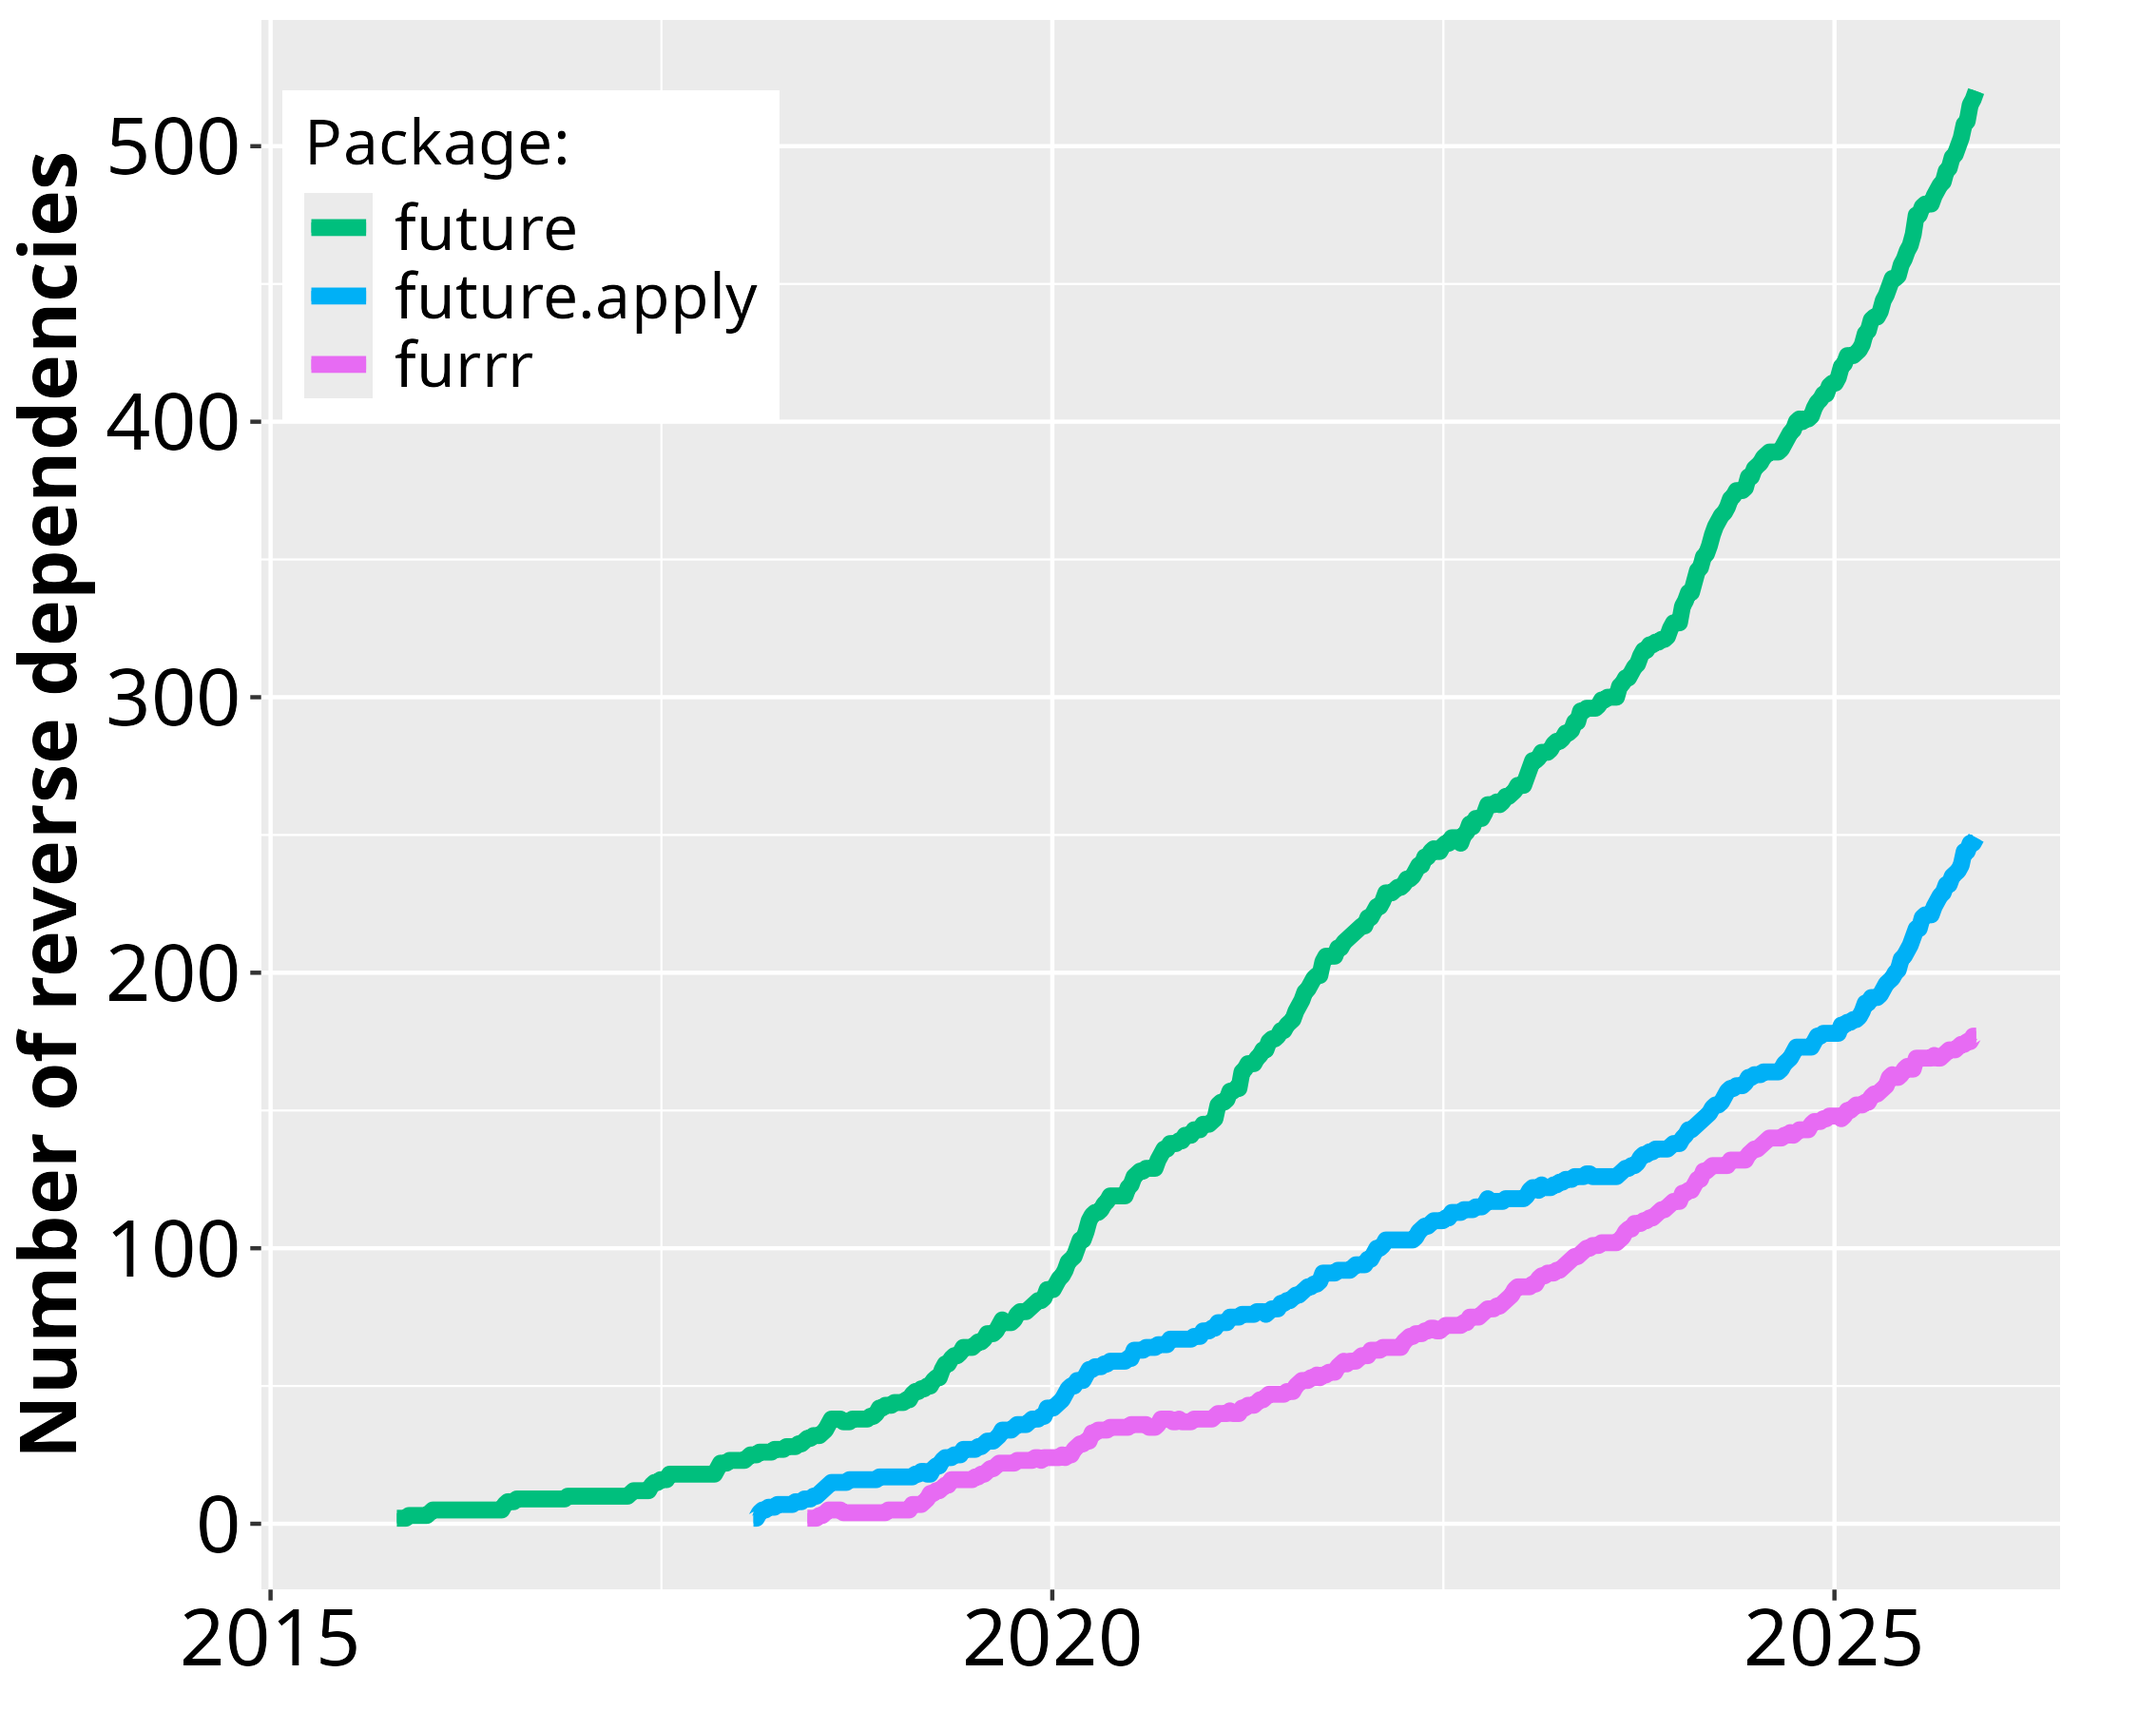
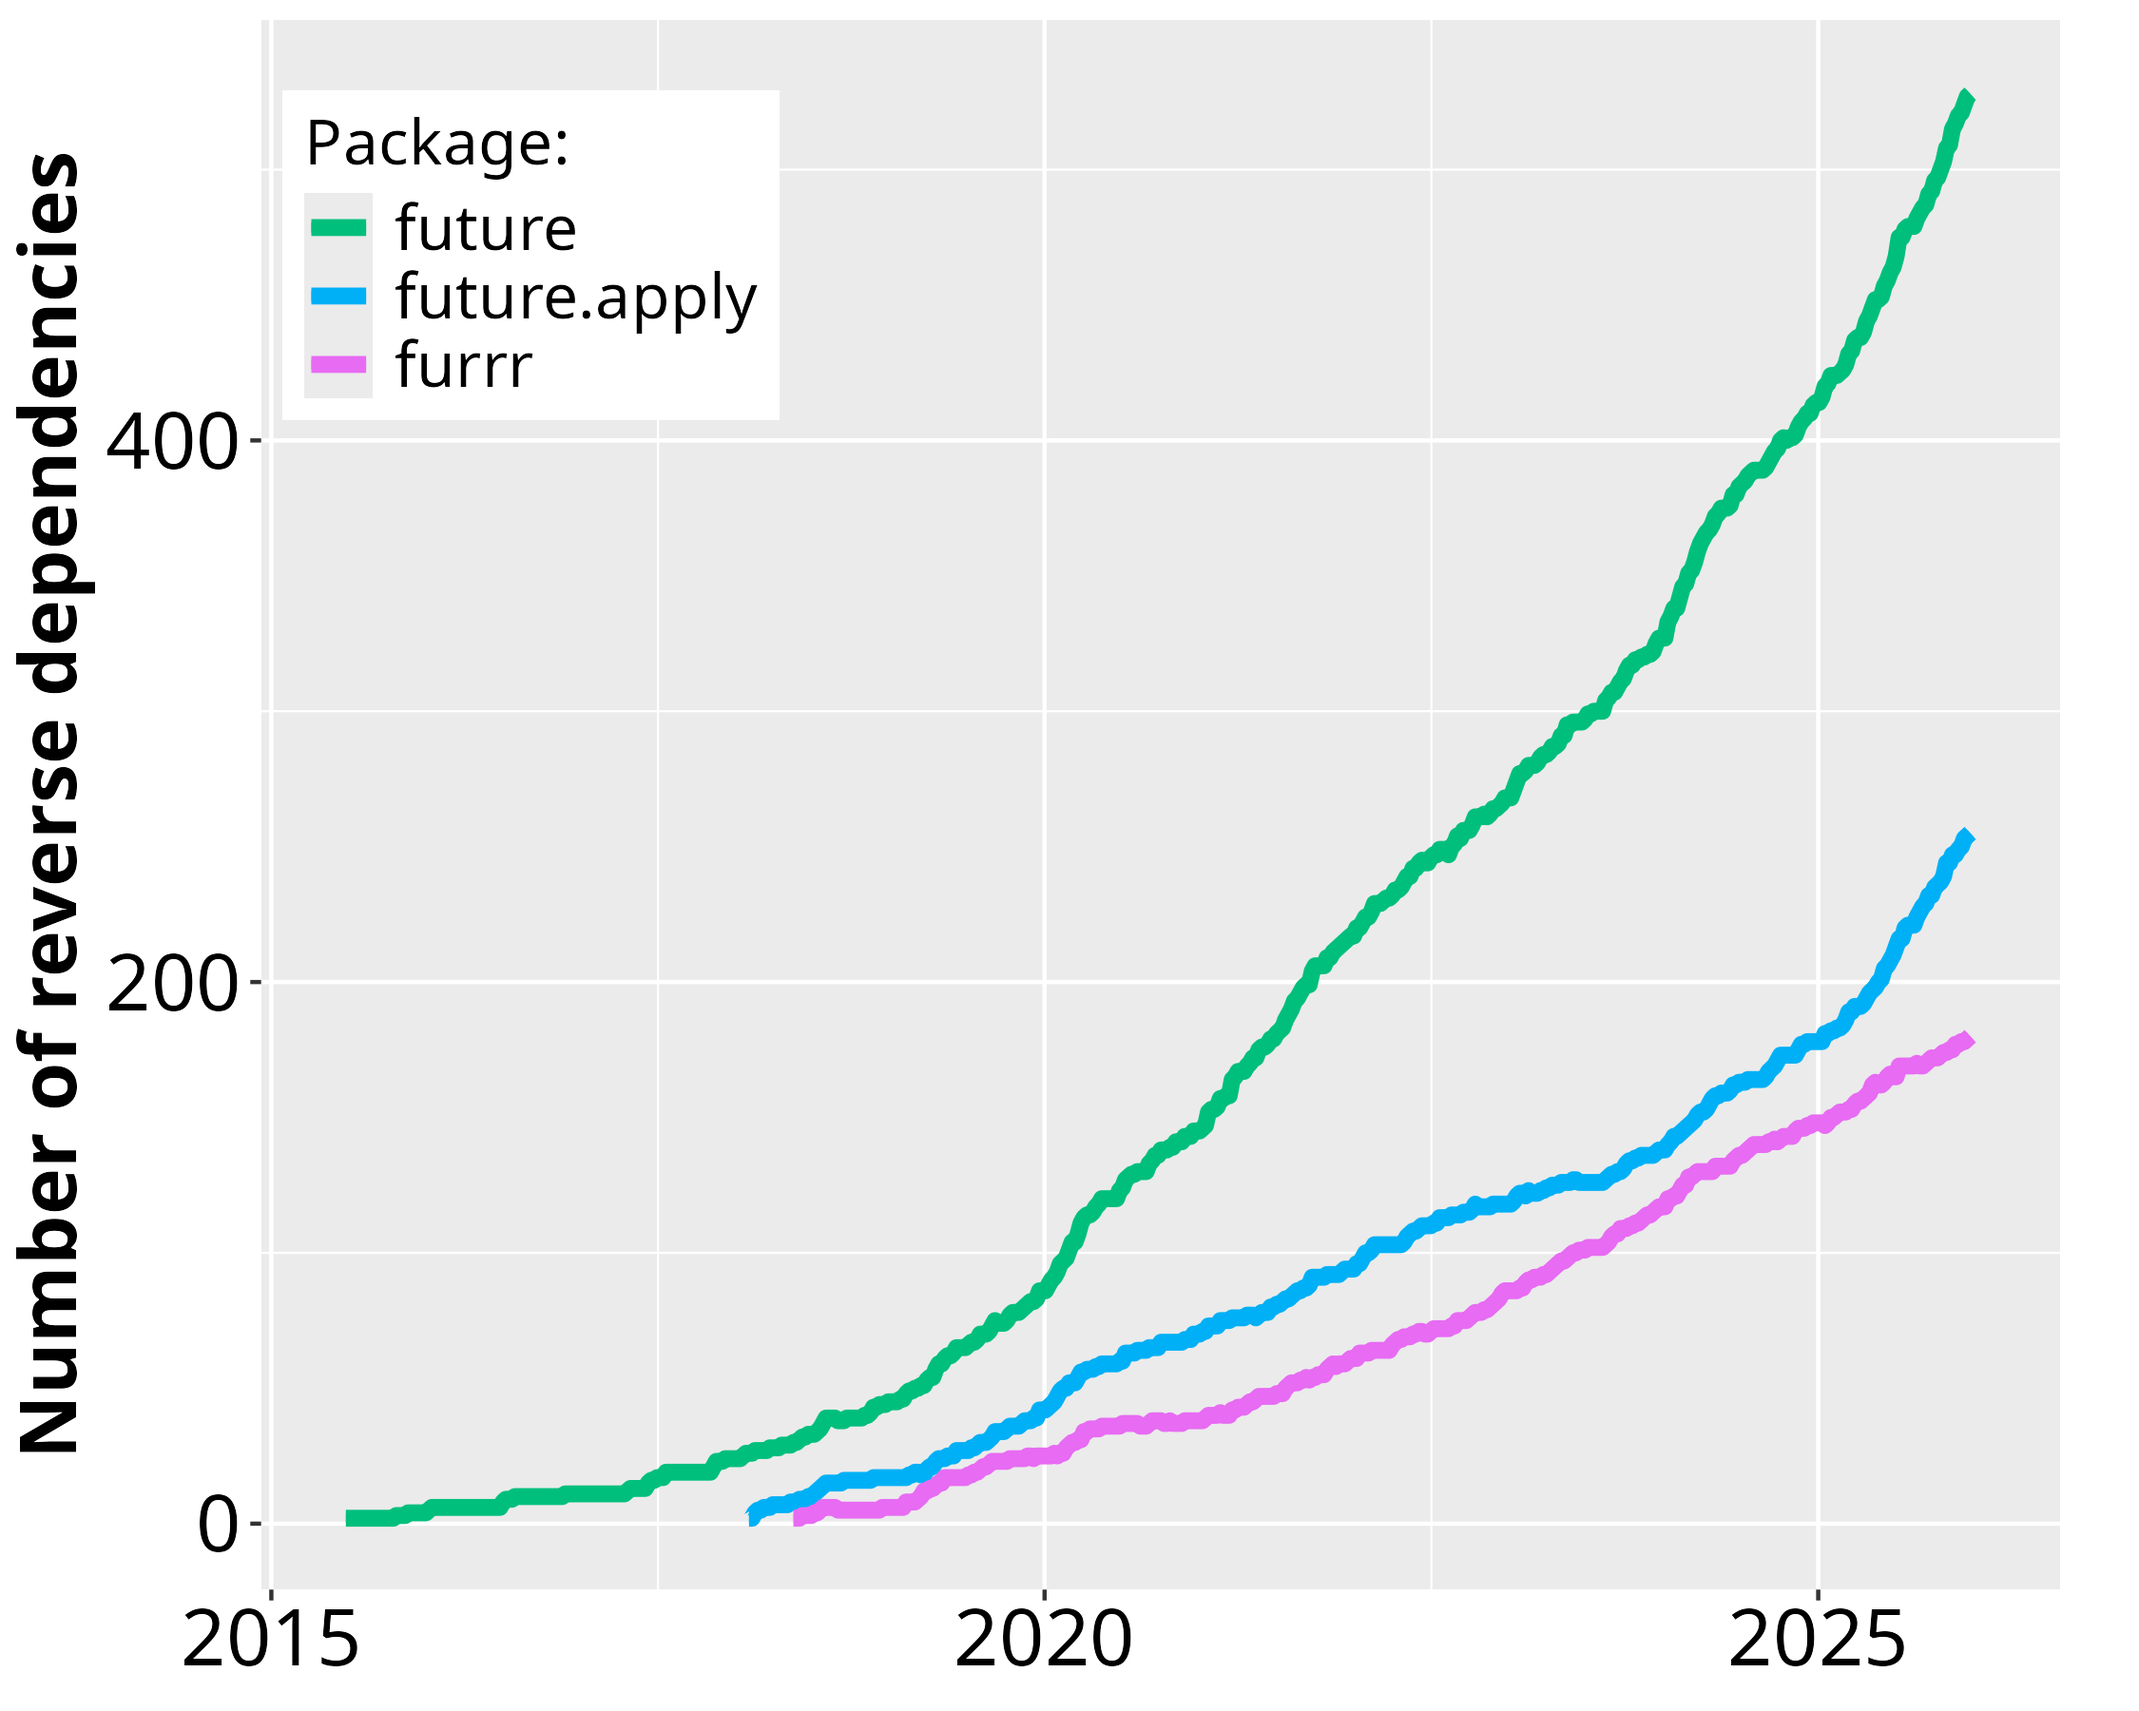
Refresh stats

diff --git a/docs/usage.html b/docs/usage.html
@@ -532,7 +532,7 @@ gtag('config', 'G-SB3EQSD9FR', { 'anonymize_ip': true});
 </section>
 <section id="cran-statistics" class="level1">
 <h1>CRAN Statistics</h1>
-<p>Since the first CRAN release of <strong>future</strong> in June 2015, its uptake among end-users and package developers have grown steadily. During November 2025, <strong>future</strong> was among the top-0.7% most downloaded package on CRAN (Figure 1) and there are 510 packages on CRAN and Bioconductor that directly depend on it (Figure 2). For map-reduce parallelization packages <strong>future.apply</strong> (top-0.8% most downloaded) and and <strong>furrr</strong> (top 1.4%), the corresponding number of packages are 250 and 180, respectively. If we consider recursive dependencies too, that is, packages that use the <strong>future</strong> package either directly or indirectly via another package, then 85% of all ~23,000 CRAN packages may rely on the future framework for their processing.</p>
+<p>Since the first CRAN release of <strong>future</strong> in June 2015, its uptake among end-users and package developers have grown steadily. During December 2025, <strong>future</strong> was among the top-0.7% most downloaded package on CRAN (Figure 1) and there are 520 packages on CRAN and Bioconductor that directly depend on it (Figure 2). For map-reduce parallelization packages <strong>future.apply</strong> (top-0.7% most downloaded) and and <strong>furrr</strong> (top 1.5%), the corresponding number of packages are 250 and 180, respectively. If we consider recursive dependencies too, that is, packages that use the <strong>future</strong> package either directly or indirectly via another package, then 85% of all ~23,000 CRAN packages may rely on the future framework for their processing.</p>
 <!--
 pkgs <- revdepcheck:::cran_revdeps("future")
 pkgs <- tools::package_dependencies("future", which="all", reverse=TRUE, recursive=TRUE)        
@@ -544,13 +544,13 @@ pkgs <- tools::package_dependencies("future", which="all", reverse=TRUE, recursi
 </div>
 <p><em>Figure 1: The download percentile ranks for <strong>future</strong>, <strong>future.apply</strong>, <strong>furrr</strong>, and <strong>foreach</strong> averaged every four weeks. <strong>future</strong> is among the top-0.7% most downloaded packages on CRAN. The data are based on the Posit CRAN mirror logs. There are approximately 200 million package downloads per month from the Posit CRAN mirror alone. Since none of the other CRAN mirrors provide statistics, it is impossible to know the total amount of package installations.</em></p>
 <!-- [https://cranlogs.r-pkg.org/downloads/total/last-month] -->
-<p>As a reference<a href="#fn1" class="footnote-ref" id="fnref1" role="doc-noteref"><sup>1</sup></a>, the popular <strong>foreach</strong>, released in 2009, was among the top-0.8% most downloaded packages during the same period and it has 1,300 reverse package dependencies on CRAN. The number of users that download <strong>future</strong> has grown rapidly whereas the the same number has slowly decreased for the <strong>foreach</strong> package (Figure 1). Similarly, the number of reverse package dependencies on <strong>future</strong> appear to grow faster than for <strong>foreach</strong> (Figure 2).</p>
+<p>As a reference<a href="#fn1" class="footnote-ref" id="fnref1" role="doc-noteref"><sup>1</sup></a>, the popular <strong>foreach</strong>, released in 2009, was among the top-0.9% most downloaded packages during the same period and it has 1,300 reverse package dependencies on CRAN. The number of users that download <strong>future</strong> has grown rapidly whereas the the same number has slowly decreased for the <strong>foreach</strong> package (Figure 1). Similarly, the number of reverse package dependencies on <strong>future</strong> appear to grow faster than for <strong>foreach</strong> (Figure 2).</p>
 <div class="quarto-layout-panel" data-layout-ncol="2">
 <div class="quarto-layout-row">
 <div class="quarto-layout-cell" style="flex-basis: 50.0%;justify-content: flex-start;">
 <div class="quarto-figure quarto-figure-center">
 <figure class="figure">
-<p><img src="figures/revdep_over_time_on_CRAN.png" class="img-fluid figure-img" alt="A line chart showing the growth in the number of reverse dependencies on CRAN for three R packages, 'future', 'future.apply', and 'furrr', from 2015 to 2025. The y-axis ranges from 0 to 500 dependencies. The 'future' package (green) rises steeply after 2018 and exceeds 500 by November 2025; 'future.apply' (blue) grows steadily to 250; and 'furrr' (purple) follows a similar but slightly slower trajectory, ending near 180."></p>
+<p><img src="figures/revdep_over_time_on_CRAN.png" class="img-fluid figure-img" alt="A line chart showing the growth in the number of reverse dependencies on CRAN for three R packages, 'future', 'future.apply', and 'furrr', from 2015 to 2025. The y-axis ranges from 0 to 500 dependencies. The 'future' package (green) rises steeply after 2018 and exceeds 500 by December 2025; 'future.apply' (blue) grows steadily to 250; and 'furrr' (purple) follows a similar but slightly slower trajectory, ending near 180."></p>
 <figcaption>Package counts on the linear scale.</figcaption>
 </figure>
 </div>
